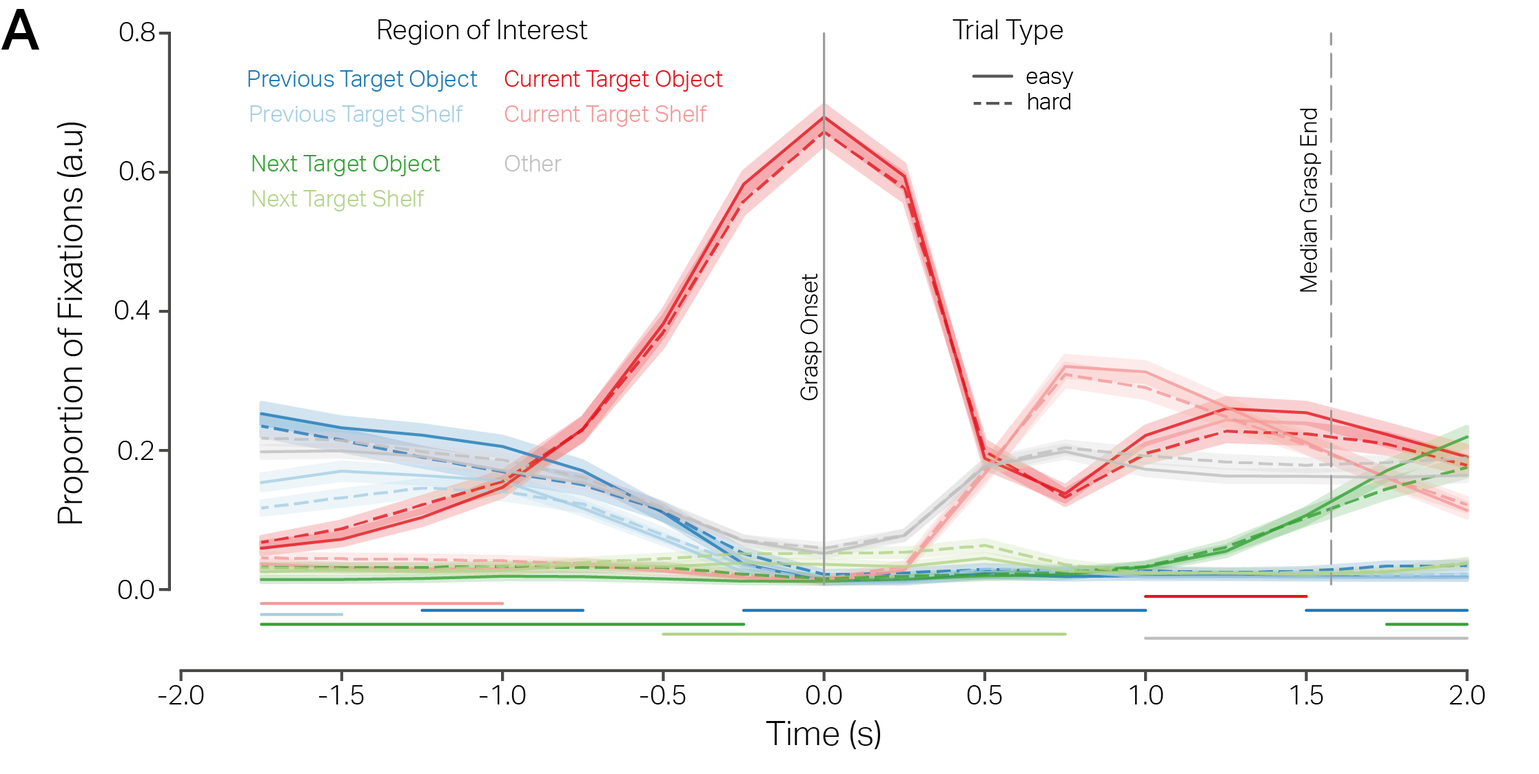
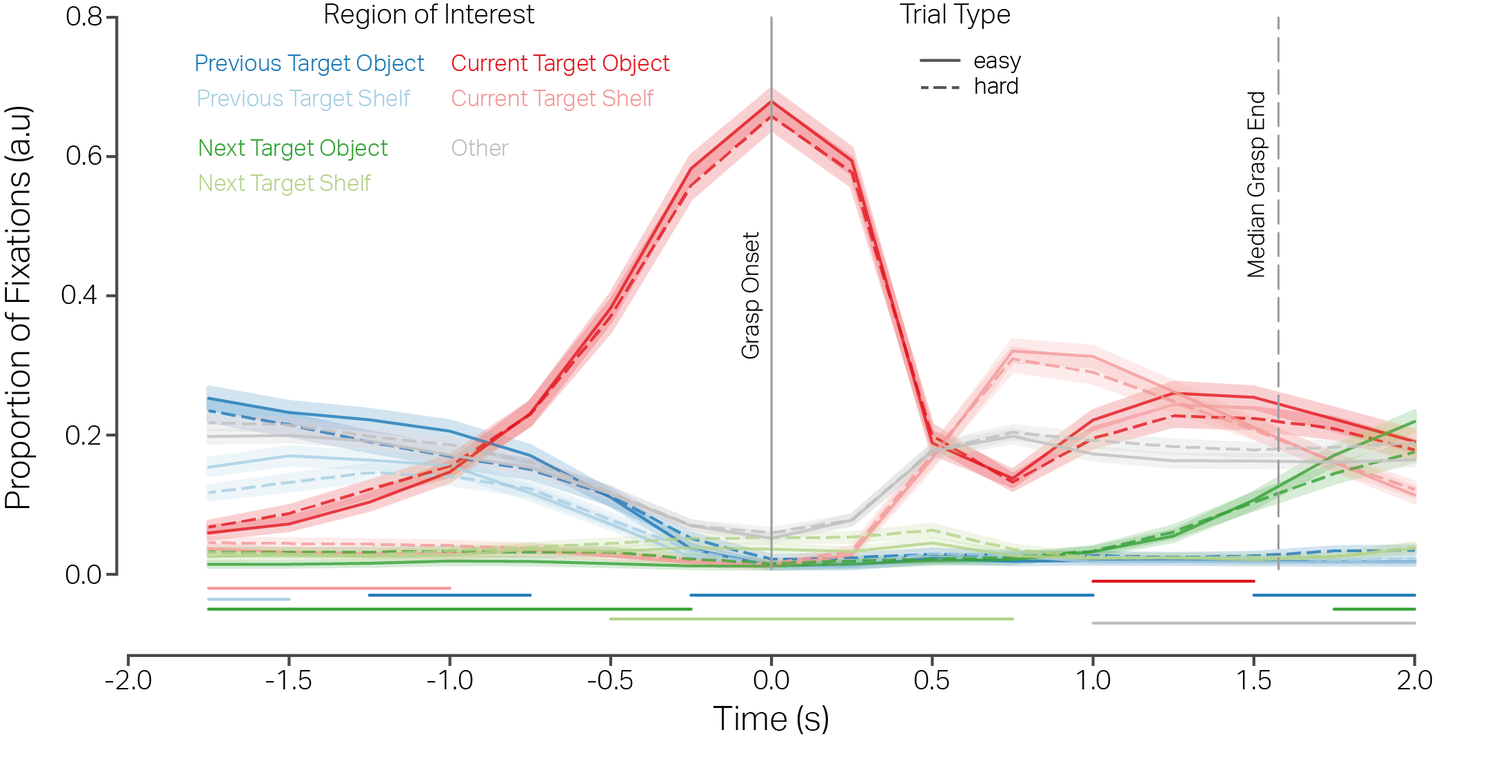
intro

diff --git a/source/01_introduction.tex b/source/01_introduction.tex
@@ -1,41 +1,21 @@
 \section{Introduction}
 
-Humans actively use vision during everyday activities to gather and refine information about the environment. Since the seminal works of \citet{Yarbus2013-eu} and \citet{Buswell1935-di} there has been consistent evidence that eye movements depend on the viewing task the observer is performing. This is further supplemented by studies that have revealed that overt attention during natural viewing conditions is driven by scene semantics i.e. meaning and not by salience \citep{Henderson2017-it}. \citet{Kollmorgen2010-wg} have also shown that spatial viewing biases and task dependent features contribute highly to attention in a visual scene. We have growing evidence that eye movements are driven by top-down factors of task relevance and less by bottom-up factors of salience in the environment.
+Humans actively use vision during everyday activities to gather and refine information about the environment. Since the seminal works of \citet{Yarbus2013-eu} and \citet{Buswell1935-di} there has been consistent evidence that eye movements depend on the viewing task the observer is performing.  \citet{Kollmorgen2010-wg} demonstrated stimulus dependent features, spatial viewing biases and task dependent features all influence the exploration of a visual scene. have also shown that spatial viewing biases and task dependent features contribute highly to attention in a visual scene. This is further supported by studies that emphasize the relevance of semantics in guidance of eye movements \citep{Henderson2017-it, Einhauser2008-yi}. Thus, we have growing evidence that task demands can affect eye movements behavior.
 
-While studying eye movements profiles on static images in a controlled lab environment has offered illuminating insights into task-relevant modulation of attention, mobile subjects can give us a richer picture of cognitive processing in more naturalistic settings. In a pragmatic turn in cognitive science, there is a greater push towards incorporating the study of cognitive processes while interacting with the external world \citet{Parada2020-qq}. Moreover, \citet{Engel2013-bx} proposed that cognition encompasses the body and in turn, bodily action can be used to infer cognition. To this effect, understanding the control of eye movements in natural, real-life situations requires a mobile setup that allows for a subject to be recorded in tandem with volitional actions in a controlled yet unconstrained environment. In recent years, virtual reality (VR) and mobile sensing has offered great opportunity to create controlled, natural environments where subjects' eye and body movements can be measured reliably along with their interactions with the environment \citep{Keshava2020-cp, Clay2019-cu, Mann2019-ls}. Experiments in virtual environments have grown popular in recent years and have shown promise towards studying cognition in naturalistic and controlled environments.
+In a pragmatic turn in cognitive science, there is a greater push towards incorporating the study of cognitive processes while interacting with the external world \citep{Parada2020-qq}. Moreover, \citet{Engel2013-bx} proposed that cognition encompasses the body and in turn, bodily action can be used to infer cognition. To this effect, understanding the control of eye movements in natural, real-life situations requires a mobile setup that allows for a subject to be recorded in tandem with volitional actions in a controlled yet unconstrained environment. Studying eye movements in mobile subjects might give us a richer picture of cognitive processing in more naturalistic settings.
 
-Seminal studies have already investigated eye movement behavior in natural environment with fully mobile participants. For example, eye movements have been studied under a plethora of natural condition while walking \citep{Matthis2018-ho}, tea-making \citep{Land1999-ol} , sandwich making \citep{Hayhoe2003-lw} , driving \citep{Mars2012-bn, Sullivan2012-gg}, hand-washing \citep{Pelz2001-cn} , hitting a ball \citep{Land2000-pw}. For these studies head-mounted eye-tracking devices were used as participants performed these tasks that allowed for fully mobile interaction with the world. Although the head mounted camera and eye-tracker record the subjects' ego-centric view of the environment, there are still some deficiencies in precisely recording the changes in the environment simultaneously with bodily interactions in a unified space. Here, VR based studies can provide a unique solution to monitor time-resolved changes in the environment and the participant.
+Seminal studies have already investigated eye movement behavior in natural environment with fully mobile participants. In the pioneering studies of \citet{Land1999-ol} and \citet{Hayhoe2003-lw}, subjects performed everyday activities of tea-making and sandwich-making, respectively. These studies required a sequence of actions which involved manipulating objects one at a time to achieve the goal. Both studies showed that nearly all the fixations were task-related. Further studies investigated eye movements under a plethora of natural condition while walking \citep{Matthis2018-ho}, driving \citep{Mars2012-bn, Sullivan2012-gg, Navarro2020-wv}, hand-washing \citep{Pelz2001-cn}, hitting a ball \citep{Land2000-pw}, and free exploration \citep{Schumann2008-un}. These experiments in naturalistic settings have revealed several distinct functions of the eye movements during habitual everyday tasks.
 
-Experiments in naturalistic settings have revealed several distinct functions of the eye movements during everyday tasks. In the pioneering studies of \citet{Land1999-ol} and \citet{Hayhoe2003-lw}, subjects performed everyday activities of tea-making and sandwich-making, respectively. These studies required a sequence of actions which involved manipulating objects one at a time to achieve the goal. Both studies showed that nearly all the fixations were task-related. Furthermore, there was a systematic relative timing of visual fixation on object and manipulation where fixations were made to target objects about 600ms before manipulation. More importantly, \citet{Ballard1995-ji} proposed a \emph{"just-in-time"} strategy that universally applies to this relative timing of fixations and actions. In other words, they state that fixations that provide information for a particular action immediately precede that action and is crucial for a fast and economical execution of the task.
+These studies uncovered a systematic timing of visual fixations and object manipulation. Specifically, fixations are made to target objects about 600ms before manipulation. More importantly, \citet{Ballard1995-ji} proposed a "just-in-time" strategy that universally applies to this relative timing of fixations and actions. In other words, fixations that provide information for a particular action immediately precede that action and are crucial for a fast and economical execution of the task
 
-\citet{Land2001-do} posit that fixations can be broadly categorized into four functional groups; 'locating' fixations which retrieve visual information; 'directing' fixations which acquire the position information of an object and accompany a manipulation action and facilitate reaching movements; 'guiding' fixations which alternate between two objects being manipulated e.g. knife, bread, and butter; and 'checking' fixations which monitor where the task-constraints in the scene have been met. These findings have also been corroborated by \citet{Pelz2001-cn, Mennie2007-my}.
+While performing habitual tasks fixations can be broadly categorized into four functional groups \citep{Land2001-do}. ’Locating’ fixations retrieve visual information. ’Directing’ fixations acquire the position information of an object and accompany a manipulation action and facilitate reaching movements. ’Guiding’ fixations alternate between two objects being manipulated e.g., knife, bread, and butter. ’Checking’ fixations monitor where the task constraints in the scene have been met. These findings have also been corroborated by \citet{Pelz2001-cn} and \citet{Mennie2007-my}. \citet{Pelz2001-cn} showed similar just-in-time strategy of gaze allocation while performing a hand-washing task. They also reported a small number of fixations of about 5\% that did not serve the immediate sub-task but rather provided information that would be needed for a future action. The authors hypothesize these ´Look-ahead´ fixations provide a mechanism to stabilize the visual input stream that result from a sequence of actions, facilitate task-switching, and reduce conscious effort required to complete the actions in a sequence. Hence, look-ahead fixations can be explained as a perceptual strategy to ease the cognitive load attending to complex tasks in the real world. In sum, the wide-ranging functions of eye movements are well documented in natural routine tasks.
 
-\citet{Pelz2001-cn} showed similar just-in-time strategy of gaze allocation while performing a hand-washing task. They also reported a small number of fixations \~5\% that did not serve the immediate sub-task but rather provided information that would be needed for a future action. The authors hypothesize these "look-ahead" fixations provide a mechanism to stabilize the visual input stream that result from a sequence of actions, facilitate task-switching, and reduce conscious effort required to complete the actions in a sequence. Hence, look-ahead fixations can be explained as a perceptual strategy to ease the cognitive load attending to complex tasks in the real world. In sum, the wide-ranging functions of eye movements are well documented in natural and routine tasks.
+Based on these observations \citet{Land2001-do} proposed a framework that outlines that flow of visual and motor control during task execution \textcolor{Blue}{Figure \ref{figure:task}}. The process summarizes the various operations that must occur during an ’object-related action’ i.e., individual actions performed on separate objects to achieve the desired goal. Each schema "specifies the object to be dealt with, the action to be performed on it, and the monitoring required to establish that the action has been satisfactorily completed." \citep{Land2006-da}. Further, the gaze control samples the information about the location and identity of the object and directs the hands to it. Subsequently, the motor control system of the arms and hands implement the desired actions. Here, vision provides the information of where to direct the body, which state to monitor, and determine when the action must be terminated. Taken together, a ’script’ of instructions is sequentially implemented where the eye movements earmark the task-relevant locations in the environment that demand attentional resources for that action
 
-\citet{Land2001-do} also proposed a framework that outlines the flow of visual and motor control during task execution as shown in \textcolor{Blue}{Figure \ref{figure:task}A}. The process summarizes the various operations that \emph{must} occur during an 'object-related action' i.e., individual actions performed on separate objects to achieve the desired goal. As described in Land (2006) each schema " specifies the object to be dealt with, the action to be performed on it, and the monitoring required to establish that the action has been satisfactorily completed." Further, the gaze control samples the information about the location and identity of the object and directs the hands to it. Subsequently, the motor control system of the arms and hands implement the desired actions. Here, vision provides the information of where to direct the body, which state to monitor, and determine when the action must be terminated. Taken together, a 'script' of instructions is sequentially implemented where the eye movements earmark the task-relevant locations in the environment that demand attentional resources for that action.
+This matches the common theme in the above studies investigating natural tasks (e.g., tea-making, sandwich-making, hand-washing) with an organized and well-known structure. These tasks involve specific object-related actions such as picking up the knife, picking up the teapot, etc. and have a predefined ’script’ for the execution of the tasks. The studies, therefore, study eye movements that are under strict control of a task sequence. Moreover, these tasks are over-learned and over-generalized as they are part of a habitual action repertoire for an adult human being. As discussed by \citet{Land2006-da} the low-level schemas (locating, directing, guiding, monitoring) defined above are likely not executed under deliberate conscious control. This distinction corresponds to \citet{James2007-zv} distinction between "ideo-motor" and "willed" acts. As James described, ideo-motor actions correspond to movements where we are "aware of nothing between the conception and execution" of the said action. In contrast, the willed actions require "an additional conscious element in the shape of a fiat, mandate, or expressed consent." Hence, it is unclear whether these low-level schemas of gaze control operate similarly for deliberate actions where an internal task script is not already known.
 
-% \begin{figure}[h]
-%     \centering
-%     \includegraphics[width=0.6\linewidth]{source/figures/introduction/land_schema.PNG}
-%     \caption{Schematic of motor and gaze control systems during performance of natural tasks. From \citet{Land2001-do}}
-%     \label{fig:land_schema}
-% \end{figure}
+\citet{Norman1986-qb} proposed a theoretical framework for the components of attentional mechanisms that govern deliberate/planned actions. In comparison to the low-level schema proposed by \citet{Land2006-da}, which can account for routine, well-learned tasks, the \citet{Norman1986-qb} model suggests another supervisory module that selects a schema to implement. In well-learned tasks, a schema is triggered automatically without conscious control. However, when a task is fairly complex and requires planning, multiple low-level schemas might compete for resources at the same time and require contention scheduling. For example, contentions can arise on whether to monitor the current action with respect to previous actions or future planned actions to fulfill the task-relevant goals. Such a scheduling mechanism is then required to provide conflict resolution for potentially relevant schemas either by inhibition or activation. Additionally, the model proposes a Supervisory Attentional System (SAS) that modulates the selection of a schema. The model suggests that attentional resources are deployed only at the specific points in a task where schema selection is required. Taken together, the model predicts that a failure of the supervisory control can lead to an instability of attention and heightened distraction.
 
-The common theme in the above studies is that the tasks investigated (tea-making, sandwich-making, hand-washing) have an organized task structure. These tasks involve specific object-related actions such as picking up the knife, picking up the teapot, etc. and have a predefined 'script' for the execution of the tasks. The studies, therefore, study eye movements that are under strict control of a task sequence. Moreover, these tasks are over-learned and over-generalized as they are part of a habitual action repertoire for an adult human being. As discussed by \citet{Land2006-da} these low level schemas defined above are likely not executed under deliberate conscious control. This distinction corresponds to \citet{james2007principles}'s distinction between "ideo-motor" and "willed" acts. As James described, ideo-motor actions correspond to movements where we are "aware of nothing between the conception and execution" of the said action. In contrast, the willed actions require "an additional conscious element in the shape of a fiat, mandate, or expressed consent." Hence, it is unclear whether these low-level schemas of gaze control operate similarly for deliberate actions where an internal task 'script' is not already known.
+To further pursue this line of research, it is desirable to perform such experiments under tightly controlled laboratory conditions. In recent years, virtual reality (VR) and mobile sensing has offered great opportunity to create controlled, natural environments. Here, subjects’ eye and body movements can be measured reliably along with their interactions with the environment \citep{Keshava2020-cp, Clay2019-cu, Mann2019-ls, Keshava2021-ei}. Experiments in virtual environments have grown popular in recent years and have shown promise towards studying cognition in naturalistic and controlled environments.
 
-\citet{Norman1986-qb} proposed a theoretical framework for the components of attentional mechanisms that govern deliberate/planned actions. In comparison to the low-level schema proposed by Land \& Hayhoe which can account for routine, well-learned tasks, the \citet{Norman1986-qb} model suggests another supervisory module that selects a schema to implement. In well-learned tasks, a schema is triggered automatically without conscious control. However, when a task is fairly complex and requires planning, multiple low-level schemas might compete for resources at the same time and require \emph{contention scheduling}. For example, contentions can arise on whether to monitor the current action with respect to previous actions or future planned actions to fulfill the task-relevant goals. Such a scheduling mechanism is then required to provide conflict resolution for potentially relevant schemas either by inhibition or activation. Additionally, the model proposes a Supervisory Attentional System (SAS) that modulates the selection of a schema. The model suggests that attentional resources are deployed only at the specific points in a task where schema selection is required. Taken together, the model predicts that a failure of the supervisory control can lead to an instability of attention and heightened distraction.
-
-In the present study, we investigate the mechanisms of allocation of attention while performing a novel task in a naturalistic environment. We created two types of tasks that varied in complexity and required performing a sequence of actions to accomplish the cued goal. We asked subjects to sort objects on a life-size shelf based on the object features. The complexity of the task depended on sorting based on one object feature or both. We designed the tasks to be novel in a way that subjects had to plan their action sequences on-the-fly and in absence of a pre-defined action "script". We concurrently measured the eye and body movements while subjects performed the tasks. 
-
-% Based on the models proposed by \citet{Land2001-do} and \citet{Norman1986-qb}, we predicted four behavioral outcomes:
-% \begin{enumerate}
-%     \item if the actions are deliberately and optimally planned, subjects would exhibit targeted gaze guidance towards task-relevant objects. Conversely, eye movement would be more random showing more search behavior when actions are produced randomly and without deliberation.
-%     \item optimal planning of action would require gaze allocation to target locations of previous actions to monitor task requirements are validated by current actions.
-%     \item with optimal selection of relevant action schemas, subjects would allocate gaze to task-locations relevant to the actions in the future action sequence.
-%     \item given optimal gaze allocation towards current task-relevant locations would not be just-in-time i.e. first fixations on the target objects would not immediately precede an action. 
-% \end{enumerate}
-
-% Overall, these predictions generalize the flow of low-level schemas proposed by \citet{Land2001-do} by taking into account a novel task which forces deliberate action planning.
-
-
-
+In the present study, we investigate the mechanisms of allocation of attention while performing a novel task in a naturalistic environment. We created two types of tasks that varied in complexity and required performing a sequence of actions to accomplish the cued goal. We asked subjects to sort objects on a life-size shelf based on the object features. The complexity of the task depended on sorting based on one object feature or both. We designed the tasks to be novel in a way that subjects had to plan their action sequences on-the-fly and in absence of a pre-defined action "script". We concurrently measured the eye and body movements while subjects performed the tasks.

diff --git a/source/03_results.tex b/source/03_results.tex
@@ -23,7 +23,7 @@ We investigated the task complexity based differences in the the average oculomo
 
 \begin{figure}[t]
     \centering
-    \includegraphics[width=0.9\linewidth]{source/figures/results/results_2.png}
+    \includegraphics[width=1.\linewidth]{source/figures/results/results_22.png}
     \caption[Time course of fixations]{Proportion of fixations time-locked to the object displacement initiation (grasp onset) at time=0 and 2 seconds before and after on the seven regions of interest and for the EASY (solid trace) and HARD (dashed trace) tasks. In each time bin of 0.15s the proportion of fixations on all 7 ROIs for a trial type add up to 1. The dashed vertical line denotes the median end of the action execution phase The shaded regions show 95\% confidence interval of the mean proportion of gaze at each time-bin across all subjects. The proportion of fixations in each The horizontal traces at the bottom correspond to the significant time periods where the proportion of fixations on an ROI were different for the EASY and HARD trials.}
     \label{figure:action_locked}
 \end{figure}
@@ -56,9 +56,16 @@ Finally, the proportion of fixations on the other objects and shelves in the sce
 
 The above results illustrate the average spatial and temporal aspects of attention during action planning and execution. However, the scanning behavior of subjects while they perform each action is "averaged out". In order to study the scanning behavior while subjects plan and execute an action, we computed transition matrices to capture fixations to and from each of the seven ROIs as described in Section \ref{sec:transitions}. \textcolor{Blue}{Figure \ref{figure:spatiotemp}A} shows the exemplar transition matrix for a planning epoch in an EASY trial. With the transition matrices we wanted to capture the gaze guidance behavior of the subjects while they plan and execute the actions. The relative net-transitions within the planning and execution epochs of a trial tell us the different functions of gaze guidance behaviors exhibited of the subjects. With higher relative net transitions, we expect higher gaze guidance to the current task-relevant ROIs, i.e, subjects perform saccades only for guiding their hand or body towards the current target object and less so for searching for task-relevant objects or monitoring the task. If subjects perform a search and fixate on multiple ROIs in an epoch, we would expect lower relative net transitions indicating a pattern of fixations related multiple task relevant schemas that compete for selection. 
 
-In order to show the differences in mean gaze guidance behavior in a trial we used a linear mixed effects model (section \ref{sec:lmm}) with relative net transitions as the dependent variable and trial type (EASY, HARD), epoch type (PLANNING, EXECUTION) and number of object displacements as independent variables. As the independent variables were effect coded, the regression coefficients could be directly interpreted as main effects. \textcolor{Blue}{Figure \ref{figure:spatiotemp}B} illustrates the effects of trial type, epoch type and number of object displacements on the relative net transitions. There was a significant main effect of factor trial type (HARD - EASY) $\beta$ = -0.05 (95\%CI = [-0.06, -0.03], t(77.5)=-5.72), with a p-value < 0.001 showing that HARD trials had lower relative net transitions than EASY trials. There was also a significant main effect of factor epoch type (PLANNING - EXECUTION) $\beta$ = 0.03 (95\%CI = [0.00, 0.05], t(46.57)=-2.16), with a p-value = 0.03 showing that PLANNING epochs had higher relative net transitions than EXECUTION epochs. There was a significant effect of number of object displacements in a trial $\beta$ = 0.003 (95\%CI = [0.00, 0.01], t(57.64)=2.83), with a p-value = 0.006 showing that a one unit increase in the number of object displacements in a trial led to increase in relative net transitions by a factor of 0.003. There was a significant interaction between trial type and epoch type $\beta$ = -0.05 (95\%CI = [-0.08, -0.01], t(53.07)=-2.5), with a p-value = 0.01 showing that PLANNING epochs in HARD trials had lower relative net transitions. There was a significant interaction between trial type and number of object displacements $\beta$ = -0.009 (95\%CI = [-0.01, -0.01], t(45.82)=-4.31), with a p-value < 0.001 showing that a one unit increase in the number of object displacements in HARD trials led to increase in relative net transitions by a factor of -0.009. There was no significant interaction between epoch type and number of object displacements $\beta$ = 0.001 (95\%CI = [0.00, -0.01], t(43.20)=0.64), with a p-value < 0.52. There was a significant interaction between trial type, epoch type and number of object displacements $\beta$ = -0.01 (95\%CI = [-0.02, 0.00], t(42.67)=-2.20), with a p-value = 0.03 showing that a one unit increase in the number of object displacements in HARD trials and for PLANNING epochs led to increase in relative net transitions by a factor of -0.01.
+In order to show the differences in mean gaze guidance behavior in a trial we used a linear mixed effects model (section \ref{sec:lmm}) with relative net transitions as the dependent variable and trial type (EASY, HARD), epoch type (PLANNING, EXECUTION) and number of object displacements as independent variables. As the independent variables were effect coded, the regression coefficients could be directly interpreted as main effects. \textcolor{Blue}{Figure \ref{figure:spatiotemp}B} illustrates the effects of trial type, epoch type and number of object displacements on the relative net transitions. There was a significant main effect of factor trial type (HARD - EASY) $\beta$ = -0.05 (95\%CI = [-0.06, -0.03], t(77.5)=-5.72), with a p-value < 0.001 showing that HARD trials had lower relative net transitions than EASY trials. There was also a significant main effect of factor epoch type (PLANNING - EXECUTION) $\beta$ = 0.03 (95\%CI = [0.00, 0.05], t(46.57)=-2.16), with a p-value = 0.03 showing that PLANNING epochs had higher relative net transitions than EXECUTION epochs. There was a significant effect of number of object displacements in a trial $\beta$ = 0.003 (95\%CI = [0.00, 0.01], t(57.64)=2.83), with a p-value = 0.006 showing that a one unit increase in the number of object displacements in a trial led to increase in relative net transitions by a factor of 0.003. There was a significant interaction between trial type and epoch type $\beta$ = -0.05 (95\%CI = [-0.08, -0.01], t(53.07)=-2.5), with a p-value = 0.01 showing that PLANNING epochs in HARD trials had lower relative net transitions. There was a significant interaction between trial type and number of object displacements $\beta$ = -0.009 (95\%CI = [-0.01, -0.01], t(45.82)=-4.31), with a p-value < 0.001 showing that a one unit increase in the number of object displacements in HARD trials led to increase in relative net transitions by a factor of -0.009. There was no significant interaction between epoch type and number of object displacements $\beta$ = 0.001 (95\%CI = [0.00, -0.01], t(43.20)=0.64), with a p-value = 0.52. There was a significant interaction between trial type, epoch type and number of object displacements $\beta$ = -0.01 (95\%CI = [-0.02, 0.00], t(42.67)=-2.20), with a p-value = 0.03 showing that a one unit increase in the number of object displacements in HARD trials and for PLANNING epochs led to increase in relative net transitions by a factor of -0.01.
 
-The analysis above lends further evidence that task complexity had a significant effect on the gaze guidance behavior at the level of action planning and execution. The lower relative net transitions in the HARD tasks in general are indicative of competition between action schemas either for searching task-relevant ROIs or for monitoring the task progression. The higher relative net transitions in the EASY trials suggest saccades were primarily made towards the current task-relevant objects for directing or guiding the body or hand towards the object of interest. The significant correlation of the object displacements and the relative net transitions reveal that gaze allocation predominantly occurred in a just-in-time manner supporting the sub-optimal behavior exhibited by the subjects as well.
+The analysis above lends further evidence that task complexity had a significant effect on the gaze guidance behavior at the level of action planning and execution. The lower relative net transitions in the HARD tasks in general are indicative of competition between action schemas either for searching task-relevant ROIs or for monitoring the task progression. The higher relative net transitions in the EASY trials suggest saccades were primarily made towards the current task-relevant objects for directing or guiding the body or hand towards the object of interest. The significant correlation of the object displacements and the relative net transitions reveal that gaze allocation predominantly occurred in a just-in-time manner supporting the sub-optimal behavior exhibited by the subjects as well. 
 
-% To further disentangle the order of gaze allocation to the task-relevant ROIs, we were interested in the latency of the first fixations on 
+To further disentangle the effect of task complexity on the order of gaze allocation to the task-relevant ROIs, we were interested in the latency of the first fixations to these . We used linear mixed effects regression to model the median time to first fixation on the 7 ROIs in each trial as described in section \ref{sec:lmm}. We modeled the latency of the first fixations for the planning and execution epochs separately. \textcolor{Blue}{Figure \ref{figure:spatiotemp}C} shows the distribution of the normalized time to first fixations on the seven ROIs for the action planning and execution epochs. 
 
+In the action planning epoch, the time to first fixation on the previous target object was significantly earlier than the first fixation on the current target object $\beta$ = -0.35 (95\%CI = [-0.37, -0.32], t(49.67)=-29.01), with a p-value < 0.001. Similarly, the time to first fixation on the previous target shelf was significantly earlier than the first fixation on the current target object $\beta$ = -0.35 (95\%CI = [-0.37, -0.33], t(65.96)=-37.82), with a p-value < 0.001. The time to first fixation on other ROI was significantly earlier than the first fixation on the current target object $\beta$ = -0.33 (95\%CI = [-0.35, -0.31], t(72.37)=-37.03), with a p-value < 0.001. There was also a significant time difference between the first fixation on the next target object and the current target object $\beta$ = -0.06 (95\%CI = [-0.08, -0.05], t(47.36)=-6.96), with a p-value < 0.001. There was a significant time difference between the first fixation on the next target shelf and the current target object $\beta$ = -0.05 (95\%CI = [-0.07, -0.02], t(49.25)=-3.81), with a p-value < 0.001. Finally, there was also a significant time difference between the first fixation on the current target shelf and the current target object $\beta$ = -0.04 (95\%CI = [-0.06, -0.02], t(50.17)=-3.39), with a p-value = 0.001. When taking into account task complexity, there was a a significant interaction in the latency between previous target object and current target object $\beta$ = -0.06 (95\%CI = [-0.09, -0.02], t(123.78)=-3.11), with a p-value = 0.002. Similarly, there was also a significant interaction of trial type and time difference between first fixation between previous target shelf and current target object $\beta$ = -0.04 (95\%CI = [-0.07, -0.01], t(403.67)=-2.31), with a p-value = 0.02. There was also a significant interaction of trial type and latency between other ROI and current target object $\beta$ = -0.05 (95\%CI = [-0.08, -0.02], t(486.20)=-3.23), with a p-value = 0.001. There was also a significant interaction between trial type and latency between next target object and current target object $\beta$ = -0.05 (95\%CI = [-0.09, -0.02], t(83.82)=-3.16), with a p-value = 0.002. There was no significant interaction between trial type and the latency between next target shelf and current target object $\beta$ = -0.009 (95\%CI = [-0.05, 0.04], t(52.01)=-0.39), with a p-value = 0.69. There was also no significant interaction between trial type and delay between current target shelf and current target object $\beta$ = -0.002 (95\%CI = [-0.04, 0.04], t(55.39)=-0.10), with a p-value = 0.91.
+
+Taken together, the irrespective of task complexity, the action planning epochs show a systematic progression of fixations from one ROI to another. This structured temporal sequence of fixations with a defined temporal window shows that the look-ahead fixations pertaining to the future action relevant ROIs are not incidental and part of the cognitive schema to accomplish the task. Moreover, given the task complexity, the temporal profiles of these look-ahead fixations can change and occur slightly earlier.
+
+In the action execution epoch, the time to first fixation on the other ROI was significantly later than the first fixation on the current target object $\beta$ = 0.17 (95\%CI = [0.14, 0.19], t(50.47)=11.40), with a p-value < 0.001. Similarly, the time to first fixation on the previous target object was significantly later than the first fixation on the current target object $\beta$ = 0.033 (95\%CI = [0.30, 0.35], t(61.73)=24.57), with a p-value < 0.001. The time to first fixation on previous target shelf was also significantly later than the first fixation on the current target object $\beta$ = 0.33 (95\%CI = [0.30, 0.36], t(52.69)=23.59), with a p-value < 0.001. There was a significant time difference between the first fixation on the next target object and the current target object $\beta$ = 0.36 (95\%CI = [0.33, 0.39], t(58.75)=24.56), with a p-value < 0.001. There was a significant time difference between the first fixation on the next target shelf and the current target object $\beta$ = 0.43 (95\%CI = [0.40, 0.46], t(54.68)=28.49), with a p-value < 0.001. Finally, there was also a significant time difference between the first fixation on the current target shelf and the current target object $\beta$ = 0.42 (95\%CI = [0.39, 0.44], t(64.75)=32.13), with a p-value < 0.001. When taking into account task complexity, there was no significant interaction in the latency between other ROI and current target object $\beta$ = 0.008 (95\%CI = [-0.03, 0.05], t(136.42)=0.40), with a p-value = 0.69. There was no significant interaction between trial type and latency between previous target object and current target object $\beta$ = 0.02 (95\%CI = [-0.02, 0.07], t(116.24)=0.96), with a p-value = 0.34. There was no significant interaction between trial type and the latency between previous target shelf and current target object $\beta$ = 0.01 (95\%CI = [-0.04, 0.05], t(98.32)=0.49), with a p-value = 0.62.There was no significant interaction of trial type and time difference between first fixation between next target object and current target object $\beta$ = -0.002 (95\%CI = [-0.06, 0.05], t(60.67)=-0.10), with a p-value = 0.92. There was also no significant interaction of trial type and latency between next target shelf and current target object $\beta$ = -0.01 (95\%CI = [-0.07, 0.05], t(63.53)=-0.35), with a p-value = 0.73. There was a significant interaction between trial type and delay between current target shelf and current target object $\beta$ = 0.05 (95\%CI = [0.00, 0.09], t(122.10)=2.15), with a p-value = 0.03.
+
+In sum, irrespective of the task complexity, the action execution epochs show a systematic sequence of first fixations on the seven ROIs. The fixations on the previous action related object and shelf show that a monitoring of the current action with respect to the previous action might be at play, where these fixations are made to confirm the choice of the current target shelf and might serve as look-back fixations. Similarly, fixations on the target object and shelf for the next action might serve as look-ahead fixations. However, with increasing task complexity, the temporal sequence of the first fixations remained unchanged except for the later gaze allocation to the current target shelf in the case of HARD trials. One may posit here that the added task complexity does not affect the temporal sequence of the gaze allocation during action execution.

diff --git a/source/04_discussion.tex b/source/04_discussion.tex
@@ -1,6 +1,6 @@
 \section{Discussion and Conclusion}
 
-In the present study we investigated the allocation of gaze while action execution and action planning with varying task complexity. We report four main findings with this study. First, we found that subjects were not optimal in sorting the objects when compared to a greedy depth-first search algorithm. The data showed that subjects instead used a spatial heuristic to complete the task which resulted in more number of object displacements as compared to the model optimal especially for HARD tasks. These findings suggest that subjects did not optimally plan their actions and had to rely on ad-hoc heuristics to complete the task. Secondly, based on the scan path transitions, we observed greater net transitions in the EASY trials compared to HARD trials. The lower proportion of net transitions to and from the ROIs in HARD trials is evidence for "instability" in attention and heightened distraction. Thirdly, the relative net transitions in the action planning phase of both EASY and HARD trials negatively correlated with the number of object displacements made by the subjects. Finally, the relative timing of the first fixations on the immediate task-relevant ROIs in the action planning and execution phase revealed that subjects predominantly made just-in-time fixations before executing the pick-up and drop-off actions.In sum, our findings reveal a just-in-time strategy for problem solving which is reflected in both behavior and attention allocation and is invariant to task complexity.
+In the present study we investigated the allocation of gaze while action execution and action planning with varying task complexity. We report four main findings with this study. Firstly, we found that when compared to a greedy depth-first search algorithm subjects did not perform optimally in sorting the objects. Compared to the EASY task, performance dropped considerably in the HARD task. Secondly, they used ad-hoc spatial heuristics such as a spatial bias for picking up and dropping off objects to reduce the search space resulting in moderately increased number of object displacements as compared to the optimal model. Thirdly, based on the scan path transitions, we observed greater net transitions in the EASY trials compared to HARD trials. The lower proportion of net transitions to and from the ROIs in HARD trials is evidence for "instability" in attention and heightened distraction. Thirdly, the relative net transitions in the action planning phase of both EASY and HARD trials negatively correlated with the number of object displacements made by the subjects. Finally, the relative timing of the first fixations on the immediate task-relevant ROIs in the action planning and execution phase revealed that subjects predominantly made just-in-time fixations before executing the pick-up and drop-off actions.In sum, our findings reveal a just-in-time strategy for problem solving which is reflected in both behavior and attention allocation and is invariant to task complexity.
 
 To assess the sorting behavior of the participants we compared their object displacement behavior with a greedy depth-first search algorithm which optimizes for the shortest path to the solution. Studies in human performance in reasoning tasks as well as combinatorial optimization problems \citep{MacGregor2011-yf} have revealed that humans solve these tasks in a self-paced manner rather than being dependent on the size of the problem. \citet{Pizlo2005-qi} found that subjects do not perform an implicit search of the problem state space where they plan the moves without executing them, i.e. longer solution times would lead to shorter solution paths. Instead, they showed that humans break the problem down to component sub-tasks which gives rise to a low-complexity relationship between the problem size and time to solution. Further, \citet{Pizlo2005-qi} show that instead of using implicit search, subjects use simpler heuristics to decide the next move. To this effect, while subjects in our study are sub-optimal compared to a depth-first search algorithm, humans in general are prone to use non-complex heuristics that favor limited allocation of resources in the working memory.
 

diff --git a/source/00_abstract.tex b/source/00_abstract.tex
@@ -1,1 +1,1 @@
-Eye movements in the natural environment have primarily been studied for over-learned everyday activities such as tea-making, sandwich making, driving that have a fixed sequence of actions associated with them. These studies indicate a just-in-time strategy of fixations i.e. the fixation provides the  information  for  a  particular  action  immediately precedes that action. However, it is unclear if this strategy is also in play when the task is novel and a sequence of actions must be planned in the moment. To study attention mechanisms in a novel task in a natural environment, we recorded gaze and body movement data in a virtual environment while subjects performed a sorting task where they sorted objects on a life-size shelf based on some object features. To study the action planning and execution related gaze guidance behavior we also controlled the complexity of the sorting task by introducing EASY and HARD tasks. We show that subjects are close to optimal while performing EASY trials and are more sub-optimal while performing HARD tasks. Based on the scan-paths as well as latency of first fixations on the task-related ROIs during action planning and execution we show that subjects use a just-in-time strategy of fixating on the task relevant objects. From our findings, we can conclude that subjects use the just-in-time strategy in a way that sacrifices optimality by offloading cognitive task demands on the environment. These findings also lend further support to the embodied cognitive framework of cognitive processing in natural environments.
+Eye movements in the natural environment have primarily been studied for over-learned everyday activities such as tea-making, sandwich making, driving that have a fixed sequence of actions associated with them. These studies indicate an interplay of low-level action schemas that facilitate task completion. However, it is unclear if this strategy is also in play when the task is novel and a sequence of actions must be planned in the moment. To study attention mechanisms in a novel task in a natural environment, we recorded gaze and body movement data in a virtual environment while subjects performed a sorting task where they sorted objects on a life-size shelf based on some object features. To study the action planning and execution related gaze guidance behavior we also controlled the complexity of the sorting task by introducing EASY and HARD tasks. We show that subjects are close to optimal while performing EASY trials and are more sub-optimal while performing HARD tasks. Fixations aligned with action onset show task complexity elicits greater proportion of look-ahead, and monitoring fixations but not directing and guiding fixations. Task complexity affected the scan-paths on the task-relevant regions of interest during action planning and execution where subjects exhibit a greater search and action monitoring behaviors in HARD tasks and less so in EASY tasks. Task complexity also affected the temporal sequence of first fixations on the task-relevant regions of interest systematically for action planning but not for action execution. Our findings show that task complexity modulates the competition of low-level action schemas during planning and execution even when sub-optimal decisions are taken by the actor.

diff --git a/source/00_main.tex b/source/00_main.tex
@@ -73,7 +73,7 @@
 \input{source/00_abstract}
 \end{abstract}
 
-\keywords{top-down attention, gaze control, gaze-guided planning, embodied cognition, virtual reality}
+\keywords{action planning, gaze-guided planning, gaze control, action schemas, virtual reality}
 
 \linenumbers
 \captionsetup[figure]{font=scriptsize,labelfont=bf}
